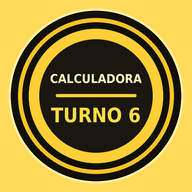
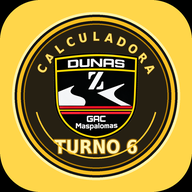
Add files via upload

diff --git a/index.html b/index.html
@@ -1,4 +1,4 @@
-<!doctype html><html lang="es"><head><meta charset="utf-8"><meta name="viewport" content="width=device-width,initial-scale=1,viewport-fit=cover"><meta name="theme-color" content="#ffdb59"><link rel="manifest" href="./manifest.json?v=16"><link rel="apple-touch-icon" href="./icon-192-v16.png"><title>Calculadora Drogas · Turno 6</title>
+<!doctype html><html lang="es"><head><meta charset="utf-8"><meta name="viewport" content="width=device-width,initial-scale=1,viewport-fit=cover"><meta name="theme-color" content="#ffdb59"><link rel="manifest" href="./manifest.json?v=17"><link rel="apple-touch-icon" href="./icon-192-v17.png"><title>Calculadora Drogas · Turno 6</title>
 <style>
 *{box-sizing:border-box}
 :root{--gold:#ffca23;--gold-light:#fff1a4;--gold-deep:#ba8000;--black:#15120b;--panel:#fff1ae;--white:#fffdf4}
@@ -36,5 +36,5 @@ button:active{filter:brightness(.93);transform:translateY(2px)}
 @media(max-width:380px){.head{min-height:178px}.head .corner.right{top:11px;right:9px;min-width:140px;font-size:25px;padding:12px 9px}.head h1{margin:119px 0 0 0;font-size:clamp(21px,6.1vw,25px)}}
 </style></head>
 <body><main class="wrap"><section class="head"><img class="header-patch" src="./assets/parche-dunas.png" alt="Parche DUNAS GAC Maspalomas"><div class="corner right">TURNO 6</div><h1>CALCULADORA DROGAS</h1></section><section class="card"><div class="field"><label for="drug">Sustancia</label><select id="drug">
-<option value="3|g|heroina">Heroína</option><option value="7.5|g|cocaina">Cocaína</option><option value="100|g|marihuana">Marihuana</option><option value="25|g|hachis">Hachís</option><option value="2.4|g|mdma">MDMA (éxtasis)</option><option value="0.3|g|metanfetamina">Metanfetamina</option><option value="0.003|g|lsd">LSD</option><option value="12.5|ml|ghb">GHB / GBL</option><option value="2.4|g|mefedrona">Mefedrona (4-MMC)</option><option value="2.6|g|tusi">Tusi / cocaína rosa</option></select></div><div class="drugframe"><img id="drugpic" class="drugpic" alt=""></div><div class="field"><label for="amount">Cantidad</label><input id="amount" type="number" min="0" step="any" inputmode="decimal"></div><button id="calc">CALCULAR</button><button id="install" class="install">INSTALAR APP</button><div id="result" class="result"><img id="resultpic" alt=""><h2 id="status"></h2><p id="detail"></p></div><p class="ref" style="opacity:.55">Calculadora T6 · v16</p></section></main>
+<option value="3|g|heroina">Heroína</option><option value="7.5|g|cocaina">Cocaína</option><option value="100|g|marihuana">Marihuana</option><option value="25|g|hachis">Hachís</option><option value="2.4|g|mdma">MDMA (éxtasis)</option><option value="0.3|g|metanfetamina">Metanfetamina</option><option value="0.003|g|lsd">LSD</option><option value="12.5|ml|ghb">GHB / GBL</option><option value="2.4|g|mefedrona">Mefedrona (4-MMC)</option><option value="2.6|g|tusi">Tusi / cocaína rosa</option></select></div><div class="drugframe"><img id="drugpic" class="drugpic" alt=""></div><div class="field"><label for="amount">Cantidad</label><input id="amount" type="number" min="0" step="any" inputmode="decimal"></div><button id="calc">CALCULAR</button><button id="install" class="install">INSTALAR APP</button><div id="result" class="result"><img id="resultpic" alt=""><h2 id="status"></h2><p id="detail"></p></div><p class="ref" style="opacity:.55">Calculadora T6 · v17</p></section></main>
 <script>const drug=document.querySelector('#drug'),amount=document.querySelector('#amount'),pic=document.querySelector('#drugpic'),result=document.querySelector('#result'),resultpic=document.querySelector('#resultpic'),status=document.querySelector('#status'),detail=document.querySelector('#detail');function data(){const[limit,unit,key]=drug.value.split('|');return{limit:+limit,unit,key,name:drug.options[drug.selectedIndex].text}}function update(){const d=data();pic.src=`./assets/${d.key}.jpg?v=16`;pic.alt=`Imagen orientativa: ${d.name}`;amount.placeholder=`Cantidad en ${d.unit}`;result.style.display='none'}function calc(){const d=data(),v=Number(amount.value);result.style.display='block';if(!Number.isFinite(v)||v<=0){result.className='result warn';resultpic.src='./assets/boletin.png';status.textContent='Cantidad no válida';detail.textContent='Introduce una cantidad mayor que cero.';return}if(v<=d.limit){result.className='result good';resultpic.src='./assets/boletin.png';resultpic.alt='Boletín sancionador';status.textContent='POSIBLE SANCIÓN ADMINISTRATIVA';detail.textContent=`${v} ${d.unit} · referencia: ${d.limit} ${d.unit}`}else{result.className='result warn';resultpic.src='./assets/detencion.png';resultpic.alt='Grilletes';status.textContent='POSIBLE RELEVANCIA PENAL';detail.textContent=`${v} ${d.unit} · supera la referencia de ${d.limit} ${d.unit}`}}drug.addEventListener('change',update);document.querySelector('#calc').addEventListener('click',calc);amount.addEventListener('keydown',e=>{if(e.key==='Enter')calc()});update();if('serviceWorker'in navigator)navigator.serviceWorker.register('./service-worker.js',{updateViaCache:'none'});let promptEvent;const install=document.querySelector('#install');window.addEventListener('beforeinstallprompt',e=>{e.preventDefault();promptEvent=e;install.style.display='block'});install.addEventListener('click',async()=>{if(promptEvent){promptEvent.prompt();await promptEvent.userChoice;promptEvent=null;install.style.display='none'}});</script></body></html>

diff --git a/service-worker.js b/service-worker.js
@@ -1,10 +1,10 @@
-const CACHE = 'turno6-v16';
+const CACHE = 'turno6-v17';
 const ASSETS = [
   './manifest.json',
   './icon-192.png',
-  './icon-192-v16.png',
+  './icon-192-v17.png',
   './icon-512.png',
-  './icon-512-v16.png',
+  './icon-512-v17.png',
   './assets/parche-dunas.png',
   './assets/boletin.png',
   './assets/detencion.png',
